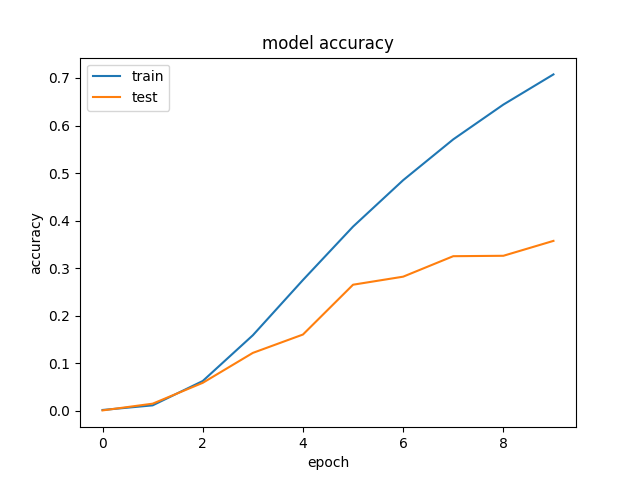
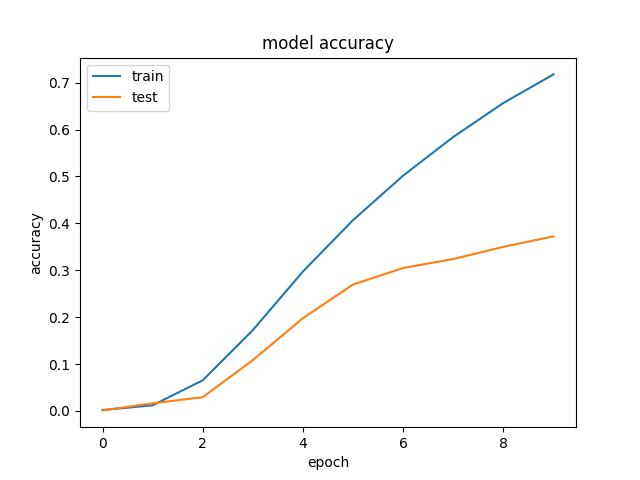
updating quantization aware training

diff --git a/train_quantization_aware.py b/train_quantization_aware.py
@@ -63,7 +63,7 @@ def main(data_folder):
     tf.keras.backend.set_session(train_sess)
     with train_graph.as_default():
         tf.contrib.quantize.create_training_graph(
-            input_graph=train_graph, quant_delay=100
+            input_graph=train_graph, quant_delay=140000
         )
         # prapare dataset
         train_data, n_train, val_data, n_val, indexes_to_names, \
